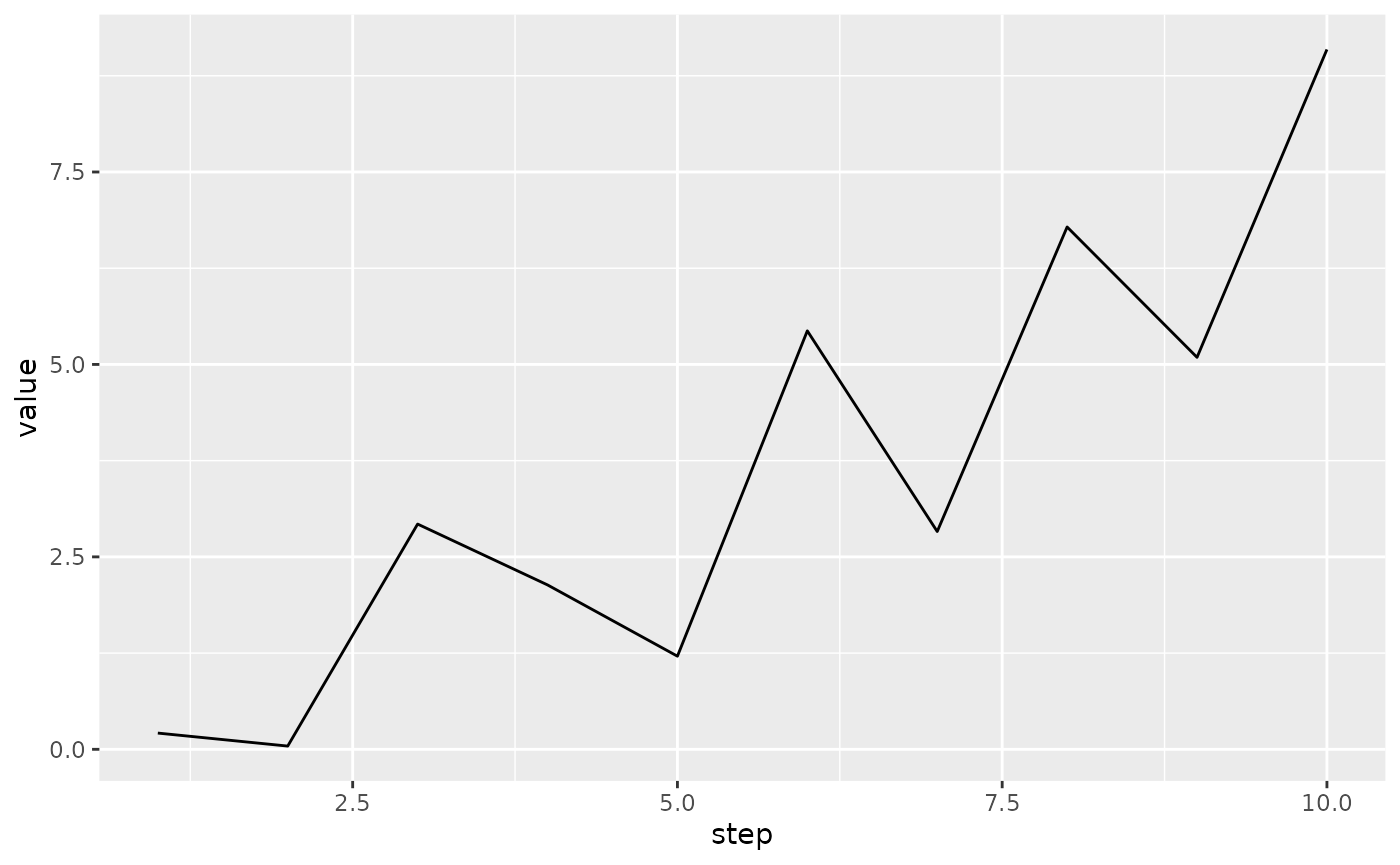
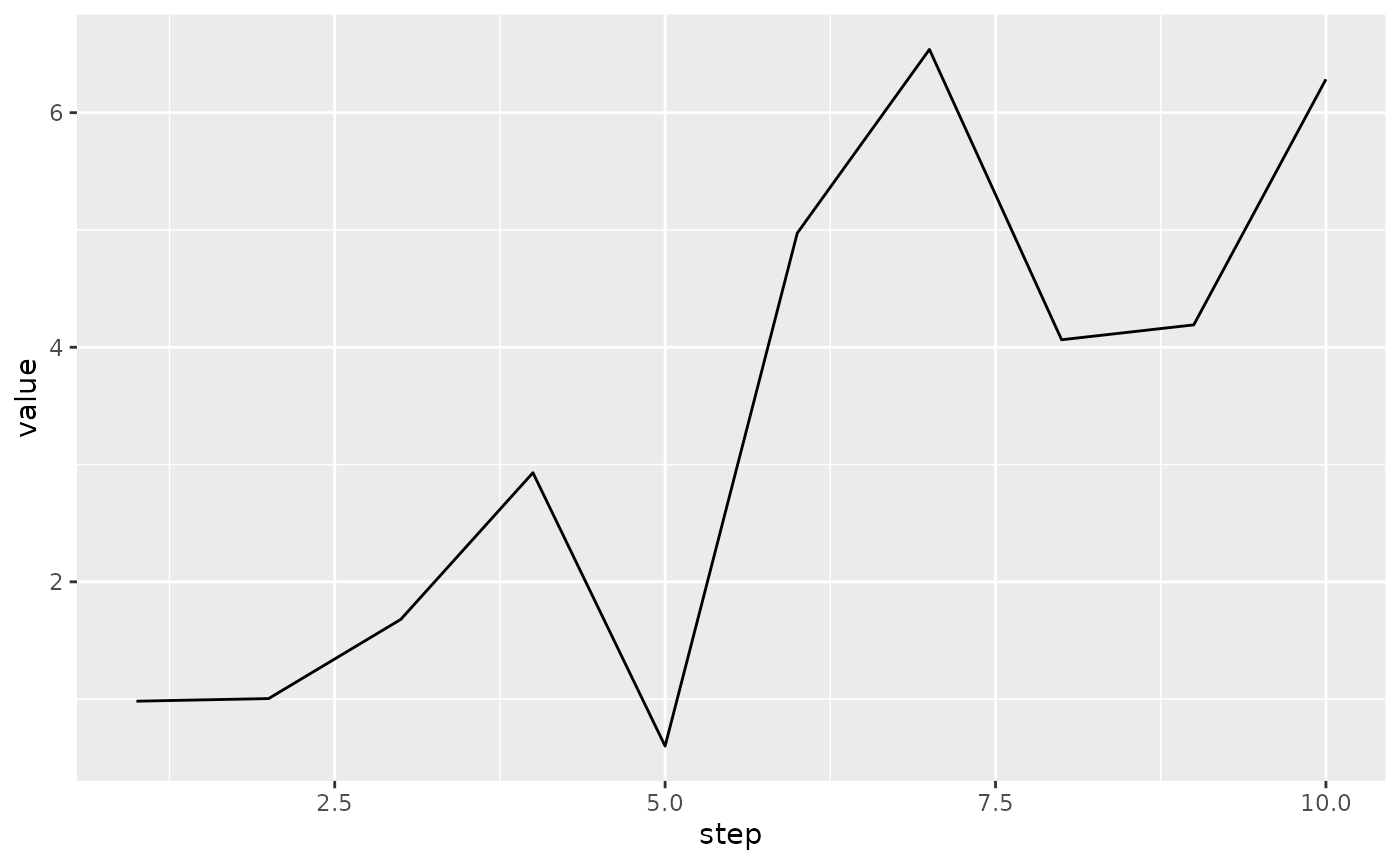
Deploying to gh-pages from @ mlverse/tfevents@6bb06f1ac5daece01a740575dfa149cb6e516cb7 🚀

diff --git a/articles/read.html b/articles/read.html
@@ -172,8 +172,8 @@ example with <code>sapply</code>:</p>
 <div class="sourceCode" id="cb7"><pre class="downlit sourceCode r">
 <code class="sourceCode R"><span><span class="co"># we remove the first summary, as it's a text summary</span></span>
 <span><span class="fu"><a href="https://rdrr.io/r/base/lapply.html" class="external-link">sapply</a></span><span class="op">(</span><span class="va">summaries</span><span class="op">$</span><span class="va">summary</span><span class="op">[</span><span class="op">-</span><span class="fl">1</span><span class="op">]</span>, <span class="va">value</span><span class="op">)</span></span>
-<span><span class="co">#&gt;  [1] 0.21093078 0.04201262 2.92610049 2.13564992 1.20986164 5.43626356</span></span>
-<span><span class="co">#&gt;  [7] 2.82948256 6.78562355 5.09219599 9.09204674</span></span></code></pre></div>
+<span><span class="co">#&gt;  [1] 0.9825128 1.0046976 1.6797793 2.9303250 0.5996587 4.9729738 6.5391517</span></span>
+<span><span class="co">#&gt;  [8] 4.0639558 4.1908422 6.2845793</span></span></code></pre></div>
 <p>The reson why you can only extract values one by one is because
 summaries are not homogenous (ie. they might be scalars, audio, images
 or text) and there would be good way of combining all of them in a
@@ -184,18 +184,18 @@ different way than what <code>summaries$summary</code> already does.</p>
 <code class="sourceCode R"><span><span class="va">scalars</span> <span class="op">&lt;-</span> <span class="fu"><a href="../reference/collect_events.html">collect_events</a></span><span class="op">(</span><span class="va">temp</span>, type <span class="op">=</span> <span class="st">"scalar"</span><span class="op">)</span></span>
 <span><span class="va">scalars</span></span>
 <span><span class="co">#&gt; <span style="color: #949494;"># A tibble: 10 × 7</span></span></span>
-<span><span class="co">#&gt;         event run    step    summary tag   plugin   value</span></span>
-<span><span class="co">#&gt;    <span style="color: #949494; font-style: italic;">&lt;tfvnts_v&gt;</span> <span style="color: #949494; font-style: italic;">&lt;chr&gt;</span> <span style="color: #949494; font-style: italic;">&lt;int&gt;</span> <span style="color: #949494; font-style: italic;">&lt;tfvnts__&gt;</span> <span style="color: #949494; font-style: italic;">&lt;chr&gt;</span> <span style="color: #949494; font-style: italic;">&lt;chr&gt;</span>    <span style="color: #949494; font-style: italic;">&lt;dbl&gt;</span></span></span>
-<span><span class="co">#&gt; <span style="color: #BCBCBC;"> 1</span>     &lt;./ 1&gt; .         1    &lt;hello&gt; hello scalars 0.211 </span></span>
-<span><span class="co">#&gt; <span style="color: #BCBCBC;"> 2</span>     &lt;./ 2&gt; .         2    &lt;hello&gt; hello scalars 0.042<span style="text-decoration: underline;">0</span></span></span>
-<span><span class="co">#&gt; <span style="color: #BCBCBC;"> 3</span>     &lt;./ 3&gt; .         3    &lt;hello&gt; hello scalars 2.93  </span></span>
-<span><span class="co">#&gt; <span style="color: #BCBCBC;"> 4</span>     &lt;./ 4&gt; .         4    &lt;hello&gt; hello scalars 2.14  </span></span>
-<span><span class="co">#&gt; <span style="color: #BCBCBC;"> 5</span>     &lt;./ 5&gt; .         5    &lt;hello&gt; hello scalars 1.21  </span></span>
-<span><span class="co">#&gt; <span style="color: #BCBCBC;"> 6</span>     &lt;./ 6&gt; .         6    &lt;hello&gt; hello scalars 5.44  </span></span>
-<span><span class="co">#&gt; <span style="color: #BCBCBC;"> 7</span>     &lt;./ 7&gt; .         7    &lt;hello&gt; hello scalars 2.83  </span></span>
-<span><span class="co">#&gt; <span style="color: #BCBCBC;"> 8</span>     &lt;./ 8&gt; .         8    &lt;hello&gt; hello scalars 6.79  </span></span>
-<span><span class="co">#&gt; <span style="color: #BCBCBC;"> 9</span>     &lt;./ 9&gt; .         9    &lt;hello&gt; hello scalars 5.09  </span></span>
-<span><span class="co">#&gt; <span style="color: #BCBCBC;">10</span>     &lt;./10&gt; .        10    &lt;hello&gt; hello scalars 9.09</span></span></code></pre></div>
+<span><span class="co">#&gt;         event run    step    summary tag   plugin  value</span></span>
+<span><span class="co">#&gt;    <span style="color: #949494; font-style: italic;">&lt;tfvnts_v&gt;</span> <span style="color: #949494; font-style: italic;">&lt;chr&gt;</span> <span style="color: #949494; font-style: italic;">&lt;int&gt;</span> <span style="color: #949494; font-style: italic;">&lt;tfvnts__&gt;</span> <span style="color: #949494; font-style: italic;">&lt;chr&gt;</span> <span style="color: #949494; font-style: italic;">&lt;chr&gt;</span>   <span style="color: #949494; font-style: italic;">&lt;dbl&gt;</span></span></span>
+<span><span class="co">#&gt; <span style="color: #BCBCBC;"> 1</span>     &lt;./ 1&gt; .         1    &lt;hello&gt; hello scalars 0.983</span></span>
+<span><span class="co">#&gt; <span style="color: #BCBCBC;"> 2</span>     &lt;./ 2&gt; .         2    &lt;hello&gt; hello scalars 1.00 </span></span>
+<span><span class="co">#&gt; <span style="color: #BCBCBC;"> 3</span>     &lt;./ 3&gt; .         3    &lt;hello&gt; hello scalars 1.68 </span></span>
+<span><span class="co">#&gt; <span style="color: #BCBCBC;"> 4</span>     &lt;./ 4&gt; .         4    &lt;hello&gt; hello scalars 2.93 </span></span>
+<span><span class="co">#&gt; <span style="color: #BCBCBC;"> 5</span>     &lt;./ 5&gt; .         5    &lt;hello&gt; hello scalars 0.600</span></span>
+<span><span class="co">#&gt; <span style="color: #BCBCBC;"> 6</span>     &lt;./ 6&gt; .         6    &lt;hello&gt; hello scalars 4.97 </span></span>
+<span><span class="co">#&gt; <span style="color: #BCBCBC;"> 7</span>     &lt;./ 7&gt; .         7    &lt;hello&gt; hello scalars 6.54 </span></span>
+<span><span class="co">#&gt; <span style="color: #BCBCBC;"> 8</span>     &lt;./ 8&gt; .         8    &lt;hello&gt; hello scalars 4.06 </span></span>
+<span><span class="co">#&gt; <span style="color: #BCBCBC;"> 9</span>     &lt;./ 9&gt; .         9    &lt;hello&gt; hello scalars 4.19 </span></span>
+<span><span class="co">#&gt; <span style="color: #BCBCBC;">10</span>     &lt;./10&gt; .        10    &lt;hello&gt; hello scalars 6.28</span></span></code></pre></div>
 <p>Now, values can be expanded in the data frame and you get a ready to
 use data frame, for example:</p>
 <div class="sourceCode" id="cb9"><pre class="downlit sourceCode r">
@@ -218,7 +218,7 @@ load events in smaller batches.</p>
 <span><span class="co">#&gt; <span style="color: #949494;"># A tibble: 1 × 7</span></span></span>
 <span><span class="co">#&gt;        event run    step    summary tag   plugin  value</span></span>
 <span><span class="co">#&gt;   <span style="color: #949494; font-style: italic;">&lt;tfvnts_v&gt;</span> <span style="color: #949494; font-style: italic;">&lt;chr&gt;</span> <span style="color: #949494; font-style: italic;">&lt;int&gt;</span> <span style="color: #949494; font-style: italic;">&lt;tfvnts__&gt;</span> <span style="color: #949494; font-style: italic;">&lt;chr&gt;</span> <span style="color: #949494; font-style: italic;">&lt;chr&gt;</span>   <span style="color: #949494; font-style: italic;">&lt;dbl&gt;</span></span></span>
-<span><span class="co">#&gt; <span style="color: #BCBCBC;">1</span>      &lt;./1&gt; .         1    &lt;hello&gt; hello scalars 0.211</span></span></code></pre></div>
+<span><span class="co">#&gt; <span style="color: #BCBCBC;">1</span>      &lt;./1&gt; .         1    &lt;hello&gt; hello scalars 0.983</span></span></code></pre></div>
 <p>Notice that the first call to <code>collect_events</code> collected
 the first scalar summary event in the directory because of
 <code>n = 1</code>. The next call will collect the remaining ones as by
@@ -226,17 +226,17 @@ default <code>n = NULL</code>.</p>
 <div class="sourceCode" id="cb11"><pre class="downlit sourceCode r">
 <code class="sourceCode R"><span><span class="fu"><a href="../reference/collect_events.html">collect_events</a></span><span class="op">(</span><span class="va">con</span>, type <span class="op">=</span> <span class="st">"scalar"</span><span class="op">)</span></span>
 <span><span class="co">#&gt; <span style="color: #949494;"># A tibble: 9 × 7</span></span></span>
-<span><span class="co">#&gt;        event run    step    summary tag   plugin   value</span></span>
-<span><span class="co">#&gt;   <span style="color: #949494; font-style: italic;">&lt;tfvnts_v&gt;</span> <span style="color: #949494; font-style: italic;">&lt;chr&gt;</span> <span style="color: #949494; font-style: italic;">&lt;int&gt;</span> <span style="color: #949494; font-style: italic;">&lt;tfvnts__&gt;</span> <span style="color: #949494; font-style: italic;">&lt;chr&gt;</span> <span style="color: #949494; font-style: italic;">&lt;chr&gt;</span>    <span style="color: #949494; font-style: italic;">&lt;dbl&gt;</span></span></span>
-<span><span class="co">#&gt; <span style="color: #BCBCBC;">1</span>     &lt;./ 2&gt; .         2    &lt;hello&gt; hello scalars 0.042<span style="text-decoration: underline;">0</span></span></span>
-<span><span class="co">#&gt; <span style="color: #BCBCBC;">2</span>     &lt;./ 3&gt; .         3    &lt;hello&gt; hello scalars 2.93  </span></span>
-<span><span class="co">#&gt; <span style="color: #BCBCBC;">3</span>     &lt;./ 4&gt; .         4    &lt;hello&gt; hello scalars 2.14  </span></span>
-<span><span class="co">#&gt; <span style="color: #BCBCBC;">4</span>     &lt;./ 5&gt; .         5    &lt;hello&gt; hello scalars 1.21  </span></span>
-<span><span class="co">#&gt; <span style="color: #BCBCBC;">5</span>     &lt;./ 6&gt; .         6    &lt;hello&gt; hello scalars 5.44  </span></span>
-<span><span class="co">#&gt; <span style="color: #BCBCBC;">6</span>     &lt;./ 7&gt; .         7    &lt;hello&gt; hello scalars 2.83  </span></span>
-<span><span class="co">#&gt; <span style="color: #BCBCBC;">7</span>     &lt;./ 8&gt; .         8    &lt;hello&gt; hello scalars 6.79  </span></span>
-<span><span class="co">#&gt; <span style="color: #BCBCBC;">8</span>     &lt;./ 9&gt; .         9    &lt;hello&gt; hello scalars 5.09  </span></span>
-<span><span class="co">#&gt; <span style="color: #BCBCBC;">9</span>     &lt;./10&gt; .        10    &lt;hello&gt; hello scalars 9.09</span></span></code></pre></div>
+<span><span class="co">#&gt;        event run    step    summary tag   plugin  value</span></span>
+<span><span class="co">#&gt;   <span style="color: #949494; font-style: italic;">&lt;tfvnts_v&gt;</span> <span style="color: #949494; font-style: italic;">&lt;chr&gt;</span> <span style="color: #949494; font-style: italic;">&lt;int&gt;</span> <span style="color: #949494; font-style: italic;">&lt;tfvnts__&gt;</span> <span style="color: #949494; font-style: italic;">&lt;chr&gt;</span> <span style="color: #949494; font-style: italic;">&lt;chr&gt;</span>   <span style="color: #949494; font-style: italic;">&lt;dbl&gt;</span></span></span>
+<span><span class="co">#&gt; <span style="color: #BCBCBC;">1</span>     &lt;./ 2&gt; .         2    &lt;hello&gt; hello scalars 1.00 </span></span>
+<span><span class="co">#&gt; <span style="color: #BCBCBC;">2</span>     &lt;./ 3&gt; .         3    &lt;hello&gt; hello scalars 1.68 </span></span>
+<span><span class="co">#&gt; <span style="color: #BCBCBC;">3</span>     &lt;./ 4&gt; .         4    &lt;hello&gt; hello scalars 2.93 </span></span>
+<span><span class="co">#&gt; <span style="color: #BCBCBC;">4</span>     &lt;./ 5&gt; .         5    &lt;hello&gt; hello scalars 0.600</span></span>
+<span><span class="co">#&gt; <span style="color: #BCBCBC;">5</span>     &lt;./ 6&gt; .         6    &lt;hello&gt; hello scalars 4.97 </span></span>
+<span><span class="co">#&gt; <span style="color: #BCBCBC;">6</span>     &lt;./ 7&gt; .         7    &lt;hello&gt; hello scalars 6.54 </span></span>
+<span><span class="co">#&gt; <span style="color: #BCBCBC;">7</span>     &lt;./ 8&gt; .         8    &lt;hello&gt; hello scalars 4.06 </span></span>
+<span><span class="co">#&gt; <span style="color: #BCBCBC;">8</span>     &lt;./ 9&gt; .         9    &lt;hello&gt; hello scalars 4.19 </span></span>
+<span><span class="co">#&gt; <span style="color: #BCBCBC;">9</span>     &lt;./10&gt; .        10    &lt;hello&gt; hello scalars 6.28</span></span></code></pre></div>
 <p>We can now log some more scalars and recollect, you will see that the
 events that were just written are now collected.</p>
 <div class="sourceCode" id="cb12"><pre class="downlit sourceCode r">
@@ -247,9 +247,9 @@ events that were just written are now collected.</p>
 <span><span class="co">#&gt; <span style="color: #949494;"># A tibble: 3 × 7</span></span></span>
 <span><span class="co">#&gt;        event run    step    summary tag   plugin  value</span></span>
 <span><span class="co">#&gt;   <span style="color: #949494; font-style: italic;">&lt;tfvnts_v&gt;</span> <span style="color: #949494; font-style: italic;">&lt;chr&gt;</span> <span style="color: #949494; font-style: italic;">&lt;int&gt;</span> <span style="color: #949494; font-style: italic;">&lt;tfvnts__&gt;</span> <span style="color: #949494; font-style: italic;">&lt;chr&gt;</span> <span style="color: #949494; font-style: italic;">&lt;chr&gt;</span>   <span style="color: #949494; font-style: italic;">&lt;dbl&gt;</span></span></span>
-<span><span class="co">#&gt; <span style="color: #BCBCBC;">1</span>     &lt;./11&gt; .        11    &lt;hello&gt; hello scalars 0.989</span></span>
-<span><span class="co">#&gt; <span style="color: #BCBCBC;">2</span>     &lt;./12&gt; .        12    &lt;hello&gt; hello scalars 1.11 </span></span>
-<span><span class="co">#&gt; <span style="color: #BCBCBC;">3</span>     &lt;./13&gt; .        13    &lt;hello&gt; hello scalars 0.542</span></span></code></pre></div>
+<span><span class="co">#&gt; <span style="color: #BCBCBC;">1</span>     &lt;./11&gt; .        11    &lt;hello&gt; hello scalars 0.175</span></span>
+<span><span class="co">#&gt; <span style="color: #BCBCBC;">2</span>     &lt;./12&gt; .        12    &lt;hello&gt; hello scalars 0.912</span></span>
+<span><span class="co">#&gt; <span style="color: #BCBCBC;">3</span>     &lt;./13&gt; .        13    &lt;hello&gt; hello scalars 2.95</span></span></code></pre></div>
 <p>This interface allows you to efficiently read tfevents records
 without having them all on RAM at once, or work in a streaming way in a
 sense that a process might be writing tfevents (for example in a

diff --git a/articles/hparams.html b/articles/hparams.html
@@ -194,80 +194,80 @@ sets of hyperparameters.</p>
 <code>temp</code> will be filled with event files.</p>
 <div class="sourceCode" id="cb7"><pre class="downlit sourceCode r">
 <code class="sourceCode R"><span><span class="fu">fs</span><span class="fu">::</span><span class="fu"><a href="https://fs.r-lib.org/reference/dir_tree.html" class="external-link">dir_tree</a></span><span class="op">(</span><span class="va">temp</span><span class="op">)</span></span>
-<span><span class="co">#&gt; <span style="color: #0000BB; font-weight: bold;">/tmp/RtmpzsAj8u/logdir29de6ddbd7fd</span></span></span>
-<span><span class="co">#&gt; ├── <span style="color: #0000BB; font-weight: bold;">bjgepadquwnwiud</span></span></span>
-<span><span class="co">#&gt; │   ├── events.out.tfevents.1673179904.v2</span></span>
+<span><span class="co">#&gt; <span style="color: #0000BB; font-weight: bold;">/tmp/RtmpBonFFg/logdir246beb780</span></span></span>
+<span><span class="co">#&gt; ├── <span style="color: #0000BB; font-weight: bold;">cviftifxjmuktue</span></span></span>
+<span><span class="co">#&gt; │   ├── events.out.tfevents.1673368661.v2</span></span>
 <span><span class="co">#&gt; │   ├── <span style="color: #0000BB; font-weight: bold;">train</span></span></span>
-<span><span class="co">#&gt; │   │   └── events.out.tfevents.1673179904.v2</span></span>
+<span><span class="co">#&gt; │   │   └── events.out.tfevents.1673368661.v2</span></span>
 <span><span class="co">#&gt; │   └── <span style="color: #0000BB; font-weight: bold;">valid</span></span></span>
-<span><span class="co">#&gt; │       └── events.out.tfevents.1673179904.v2</span></span>
-<span><span class="co">#&gt; ├── <span style="color: #0000BB; font-weight: bold;">bjqhfmecgmcrnab</span></span></span>
-<span><span class="co">#&gt; │   ├── events.out.tfevents.1673179904.v2</span></span>
+<span><span class="co">#&gt; │       └── events.out.tfevents.1673368661.v2</span></span>
+<span><span class="co">#&gt; ├── <span style="color: #0000BB; font-weight: bold;">eserkunvjjshysy</span></span></span>
+<span><span class="co">#&gt; │   ├── events.out.tfevents.1673368660.v2</span></span>
 <span><span class="co">#&gt; │   ├── <span style="color: #0000BB; font-weight: bold;">train</span></span></span>
-<span><span class="co">#&gt; │   │   └── events.out.tfevents.1673179904.v2</span></span>
+<span><span class="co">#&gt; │   │   └── events.out.tfevents.1673368660.v2</span></span>
 <span><span class="co">#&gt; │   └── <span style="color: #0000BB; font-weight: bold;">valid</span></span></span>
-<span><span class="co">#&gt; │       └── events.out.tfevents.1673179904.v2</span></span>
-<span><span class="co">#&gt; ├── <span style="color: #0000BB; font-weight: bold;">caxkvklknrhfzkf</span></span></span>
-<span><span class="co">#&gt; │   ├── events.out.tfevents.1673179904.v2</span></span>
+<span><span class="co">#&gt; │       └── events.out.tfevents.1673368660.v2</span></span>
+<span><span class="co">#&gt; ├── events.out.tfevents.1673368659.v2</span></span>
+<span><span class="co">#&gt; ├── <span style="color: #0000BB; font-weight: bold;">fcpokpfpyksiiye</span></span></span>
+<span><span class="co">#&gt; │   ├── events.out.tfevents.1673368661.v2</span></span>
 <span><span class="co">#&gt; │   ├── <span style="color: #0000BB; font-weight: bold;">train</span></span></span>
-<span><span class="co">#&gt; │   │   └── events.out.tfevents.1673179904.v2</span></span>
+<span><span class="co">#&gt; │   │   └── events.out.tfevents.1673368661.v2</span></span>
 <span><span class="co">#&gt; │   └── <span style="color: #0000BB; font-weight: bold;">valid</span></span></span>
-<span><span class="co">#&gt; │       └── events.out.tfevents.1673179904.v2</span></span>
-<span><span class="co">#&gt; ├── <span style="color: #0000BB; font-weight: bold;">cvrumwlezqrvgkv</span></span></span>
-<span><span class="co">#&gt; │   ├── events.out.tfevents.1673179905.v2</span></span>
+<span><span class="co">#&gt; │       └── events.out.tfevents.1673368661.v2</span></span>
+<span><span class="co">#&gt; ├── <span style="color: #0000BB; font-weight: bold;">iucrlzrrwqvuaxh</span></span></span>
+<span><span class="co">#&gt; │   ├── events.out.tfevents.1673368659.v2</span></span>
 <span><span class="co">#&gt; │   ├── <span style="color: #0000BB; font-weight: bold;">train</span></span></span>
-<span><span class="co">#&gt; │   │   └── events.out.tfevents.1673179905.v2</span></span>
+<span><span class="co">#&gt; │   │   └── events.out.tfevents.1673368659.v2</span></span>
 <span><span class="co">#&gt; │   └── <span style="color: #0000BB; font-weight: bold;">valid</span></span></span>
-<span><span class="co">#&gt; │       └── events.out.tfevents.1673179905.v2</span></span>
-<span><span class="co">#&gt; ├── <span style="color: #0000BB; font-weight: bold;">dthygvameuvogje</span></span></span>
-<span><span class="co">#&gt; │   ├── events.out.tfevents.1673179904.v2</span></span>
+<span><span class="co">#&gt; │       └── events.out.tfevents.1673368659.v2</span></span>
+<span><span class="co">#&gt; ├── <span style="color: #0000BB; font-weight: bold;">iupvdcdurjyjuuz</span></span></span>
+<span><span class="co">#&gt; │   ├── events.out.tfevents.1673368661.v2</span></span>
 <span><span class="co">#&gt; │   ├── <span style="color: #0000BB; font-weight: bold;">train</span></span></span>
-<span><span class="co">#&gt; │   │   └── events.out.tfevents.1673179904.v2</span></span>
+<span><span class="co">#&gt; │   │   └── events.out.tfevents.1673368661.v2</span></span>
 <span><span class="co">#&gt; │   └── <span style="color: #0000BB; font-weight: bold;">valid</span></span></span>
-<span><span class="co">#&gt; │       └── events.out.tfevents.1673179904.v2</span></span>
-<span><span class="co">#&gt; ├── events.out.tfevents.1673179903.v2</span></span>
-<span><span class="co">#&gt; ├── <span style="color: #0000BB; font-weight: bold;">ftitxmzxjdqocxu</span></span></span>
-<span><span class="co">#&gt; │   ├── events.out.tfevents.1673179904.v2</span></span>
+<span><span class="co">#&gt; │       └── events.out.tfevents.1673368661.v2</span></span>
+<span><span class="co">#&gt; ├── <span style="color: #0000BB; font-weight: bold;">phgfyuqpruwnmgg</span></span></span>
+<span><span class="co">#&gt; │   ├── events.out.tfevents.1673368659.v2</span></span>
 <span><span class="co">#&gt; │   ├── <span style="color: #0000BB; font-weight: bold;">train</span></span></span>
-<span><span class="co">#&gt; │   │   └── events.out.tfevents.1673179904.v2</span></span>
+<span><span class="co">#&gt; │   │   └── events.out.tfevents.1673368659.v2</span></span>
 <span><span class="co">#&gt; │   └── <span style="color: #0000BB; font-weight: bold;">valid</span></span></span>
-<span><span class="co">#&gt; │       └── events.out.tfevents.1673179904.v2</span></span>
-<span><span class="co">#&gt; ├── <span style="color: #0000BB; font-weight: bold;">jqszoitqgowvsre</span></span></span>
-<span><span class="co">#&gt; │   ├── events.out.tfevents.1673179904.v2</span></span>
+<span><span class="co">#&gt; │       └── events.out.tfevents.1673368659.v2</span></span>
+<span><span class="co">#&gt; ├── <span style="color: #0000BB; font-weight: bold;">qzabelmralbvjox</span></span></span>
+<span><span class="co">#&gt; │   ├── events.out.tfevents.1673368661.v2</span></span>
 <span><span class="co">#&gt; │   ├── <span style="color: #0000BB; font-weight: bold;">train</span></span></span>
-<span><span class="co">#&gt; │   │   └── events.out.tfevents.1673179904.v2</span></span>
+<span><span class="co">#&gt; │   │   └── events.out.tfevents.1673368661.v2</span></span>
 <span><span class="co">#&gt; │   └── <span style="color: #0000BB; font-weight: bold;">valid</span></span></span>
-<span><span class="co">#&gt; │       └── events.out.tfevents.1673179904.v2</span></span>
-<span><span class="co">#&gt; ├── <span style="color: #0000BB; font-weight: bold;">kcmsgtkimkxkfqz</span></span></span>
-<span><span class="co">#&gt; │   ├── events.out.tfevents.1673179905.v2</span></span>
+<span><span class="co">#&gt; │       └── events.out.tfevents.1673368661.v2</span></span>
+<span><span class="co">#&gt; ├── <span style="color: #0000BB; font-weight: bold;">tgqidfnvtngwdos</span></span></span>
+<span><span class="co">#&gt; │   ├── events.out.tfevents.1673368660.v2</span></span>
 <span><span class="co">#&gt; │   ├── <span style="color: #0000BB; font-weight: bold;">train</span></span></span>
-<span><span class="co">#&gt; │   │   └── events.out.tfevents.1673179905.v2</span></span>
+<span><span class="co">#&gt; │   │   └── events.out.tfevents.1673368660.v2</span></span>
 <span><span class="co">#&gt; │   └── <span style="color: #0000BB; font-weight: bold;">valid</span></span></span>
-<span><span class="co">#&gt; │       └── events.out.tfevents.1673179905.v2</span></span>
-<span><span class="co">#&gt; ├── <span style="color: #0000BB; font-weight: bold;">oqgxvjjdcjfsgfm</span></span></span>
-<span><span class="co">#&gt; │   ├── events.out.tfevents.1673179905.v2</span></span>
+<span><span class="co">#&gt; │       └── events.out.tfevents.1673368660.v2</span></span>
+<span><span class="co">#&gt; ├── <span style="color: #0000BB; font-weight: bold;">vbkdovqkxfmwfpe</span></span></span>
+<span><span class="co">#&gt; │   ├── events.out.tfevents.1673368659.v2</span></span>
 <span><span class="co">#&gt; │   ├── <span style="color: #0000BB; font-weight: bold;">train</span></span></span>
-<span><span class="co">#&gt; │   │   └── events.out.tfevents.1673179905.v2</span></span>
+<span><span class="co">#&gt; │   │   └── events.out.tfevents.1673368659.v2</span></span>
 <span><span class="co">#&gt; │   └── <span style="color: #0000BB; font-weight: bold;">valid</span></span></span>
-<span><span class="co">#&gt; │       └── events.out.tfevents.1673179905.v2</span></span>
-<span><span class="co">#&gt; ├── <span style="color: #0000BB; font-weight: bold;">spjevdvzfosnqqv</span></span></span>
-<span><span class="co">#&gt; │   ├── events.out.tfevents.1673179905.v2</span></span>
+<span><span class="co">#&gt; │       └── events.out.tfevents.1673368659.v2</span></span>
+<span><span class="co">#&gt; ├── <span style="color: #0000BB; font-weight: bold;">vptfommpicouibn</span></span></span>
+<span><span class="co">#&gt; │   ├── events.out.tfevents.1673368660.v2</span></span>
 <span><span class="co">#&gt; │   ├── <span style="color: #0000BB; font-weight: bold;">train</span></span></span>
-<span><span class="co">#&gt; │   │   └── events.out.tfevents.1673179905.v2</span></span>
+<span><span class="co">#&gt; │   │   └── events.out.tfevents.1673368660.v2</span></span>
 <span><span class="co">#&gt; │   └── <span style="color: #0000BB; font-weight: bold;">valid</span></span></span>
-<span><span class="co">#&gt; │       └── events.out.tfevents.1673179905.v2</span></span>
-<span><span class="co">#&gt; ├── <span style="color: #0000BB; font-weight: bold;">wfdhrjprkmfvrpe</span></span></span>
-<span><span class="co">#&gt; │   ├── events.out.tfevents.1673179903.v2</span></span>
+<span><span class="co">#&gt; │       └── events.out.tfevents.1673368660.v2</span></span>
+<span><span class="co">#&gt; ├── <span style="color: #0000BB; font-weight: bold;">xdtvsftfosrnybq</span></span></span>
+<span><span class="co">#&gt; │   ├── events.out.tfevents.1673368661.v2</span></span>
 <span><span class="co">#&gt; │   ├── <span style="color: #0000BB; font-weight: bold;">train</span></span></span>
-<span><span class="co">#&gt; │   │   └── events.out.tfevents.1673179903.v2</span></span>
+<span><span class="co">#&gt; │   │   └── events.out.tfevents.1673368661.v2</span></span>
 <span><span class="co">#&gt; │   └── <span style="color: #0000BB; font-weight: bold;">valid</span></span></span>
-<span><span class="co">#&gt; │       └── events.out.tfevents.1673179903.v2</span></span>
-<span><span class="co">#&gt; └── <span style="color: #0000BB; font-weight: bold;">zcopglrkwmgaelh</span></span></span>
-<span><span class="co">#&gt;     ├── events.out.tfevents.1673179903.v2</span></span>
+<span><span class="co">#&gt; │       └── events.out.tfevents.1673368661.v2</span></span>
+<span><span class="co">#&gt; └── <span style="color: #0000BB; font-weight: bold;">ykuccmvcmbyesbd</span></span></span>
+<span><span class="co">#&gt;     ├── events.out.tfevents.1673368660.v2</span></span>
 <span><span class="co">#&gt;     ├── <span style="color: #0000BB; font-weight: bold;">train</span></span></span>
-<span><span class="co">#&gt;     │   └── events.out.tfevents.1673179903.v2</span></span>
+<span><span class="co">#&gt;     │   └── events.out.tfevents.1673368660.v2</span></span>
 <span><span class="co">#&gt;     └── <span style="color: #0000BB; font-weight: bold;">valid</span></span></span>
-<span><span class="co">#&gt;         └── events.out.tfevents.1673179903.v2</span></span></code></pre></div>
+<span><span class="co">#&gt;         └── events.out.tfevents.1673368660.v2</span></span></code></pre></div>
 <p>Finally, we can visualize the experiment results in TensorBoard:</p>
 <div class="sourceCode" id="cb8"><pre class="downlit sourceCode r">
 <code class="sourceCode R"><span><span class="fu">tensorflow</span><span class="fu">::</span><span class="fu"><a href="https://rdrr.io/pkg/tensorflow/man/tensorboard.html" class="external-link">tensorboard</a></span><span class="op">(</span><span class="va">temp</span>, port <span class="op">=</span> <span class="fl">6060</span><span class="op">)</span></span>

diff --git a/reference/collect_events.html b/reference/collect_events.html
@@ -132,13 +132,13 @@ to read further events later.</p></li>
 <span class="r-in"><span><span class="co"># collect only scalar events</span></span></span>
 <span class="r-in"><span><span class="fu">collect_events</span><span class="op">(</span><span class="va">temp</span>, type <span class="op">=</span> <span class="st">"scalar"</span><span class="op">)</span></span></span>
 <span class="r-out co"><span class="r-pr">#&gt;</span> <span style="color: #949494;"># A tibble: 5 × 7</span></span>
-<span class="r-out co"><span class="r-pr">#&gt;</span>        event run    step    summary tag    plugin   value</span>
-<span class="r-out co"><span class="r-pr">#&gt;</span>   <span style="color: #949494; font-style: italic;">&lt;tfvnts_v&gt;</span> <span style="color: #949494; font-style: italic;">&lt;chr&gt;</span> <span style="color: #949494; font-style: italic;">&lt;int&gt;</span> <span style="color: #949494; font-style: italic;">&lt;tfvnts__&gt;</span> <span style="color: #949494; font-style: italic;">&lt;chr&gt;</span>  <span style="color: #949494; font-style: italic;">&lt;chr&gt;</span>    <span style="color: #949494; font-style: italic;">&lt;dbl&gt;</span></span>
-<span class="r-out co"><span class="r-pr">#&gt;</span> <span style="color: #BCBCBC;">1</span>      &lt;./0&gt; .         0   &lt;my_log&gt; my_log scalars 0.173 </span>
-<span class="r-out co"><span class="r-pr">#&gt;</span> <span style="color: #BCBCBC;">2</span>      &lt;./1&gt; .         1   &lt;my_log&gt; my_log scalars 0.853 </span>
-<span class="r-out co"><span class="r-pr">#&gt;</span> <span style="color: #BCBCBC;">3</span>      &lt;./2&gt; .         2   &lt;my_log&gt; my_log scalars 0.502 </span>
-<span class="r-out co"><span class="r-pr">#&gt;</span> <span style="color: #BCBCBC;">4</span>      &lt;./3&gt; .         3   &lt;my_log&gt; my_log scalars 0.177 </span>
-<span class="r-out co"><span class="r-pr">#&gt;</span> <span style="color: #BCBCBC;">5</span>      &lt;./4&gt; .         4   &lt;my_log&gt; my_log scalars 0.015<span style="text-decoration: underline;">6</span></span>
+<span class="r-out co"><span class="r-pr">#&gt;</span>        event run    step    summary tag    plugin    value</span>
+<span class="r-out co"><span class="r-pr">#&gt;</span>   <span style="color: #949494; font-style: italic;">&lt;tfvnts_v&gt;</span> <span style="color: #949494; font-style: italic;">&lt;chr&gt;</span> <span style="color: #949494; font-style: italic;">&lt;int&gt;</span> <span style="color: #949494; font-style: italic;">&lt;tfvnts__&gt;</span> <span style="color: #949494; font-style: italic;">&lt;chr&gt;</span>  <span style="color: #949494; font-style: italic;">&lt;chr&gt;</span>     <span style="color: #949494; font-style: italic;">&lt;dbl&gt;</span></span>
+<span class="r-out co"><span class="r-pr">#&gt;</span> <span style="color: #BCBCBC;">1</span>      &lt;./0&gt; .         0   &lt;my_log&gt; my_log scalars 0.533  </span>
+<span class="r-out co"><span class="r-pr">#&gt;</span> <span style="color: #BCBCBC;">2</span>      &lt;./1&gt; .         1   &lt;my_log&gt; my_log scalars 0.612  </span>
+<span class="r-out co"><span class="r-pr">#&gt;</span> <span style="color: #BCBCBC;">3</span>      &lt;./2&gt; .         2   &lt;my_log&gt; my_log scalars 0.004<span style="text-decoration: underline;">55</span></span>
+<span class="r-out co"><span class="r-pr">#&gt;</span> <span style="color: #BCBCBC;">4</span>      &lt;./3&gt; .         3   &lt;my_log&gt; my_log scalars 0.322  </span>
+<span class="r-out co"><span class="r-pr">#&gt;</span> <span style="color: #BCBCBC;">5</span>      &lt;./4&gt; .         4   &lt;my_log&gt; my_log scalars 0.998  </span>
 <span class="r-in"><span></span></span>
 </code></pre></div>
     </div>

diff --git a/reference/get_default_logdir.html b/reference/get_default_logdir.html
@@ -112,7 +112,7 @@ at every call. These functions allow you to query and the current logdir.</p>
 <span class="r-in"><span><span class="fu">with_logdir</span><span class="op">(</span><span class="va">temp</span>, <span class="op">{</span></span></span>
 <span class="r-in"><span> <span class="fu"><a href="https://rdrr.io/r/base/print.html" class="external-link">print</a></span><span class="op">(</span><span class="fu">get_default_logdir</span><span class="op">(</span><span class="op">)</span><span class="op">)</span></span></span>
 <span class="r-in"><span><span class="op">}</span><span class="op">)</span></span></span>
-<span class="r-out co"><span class="r-pr">#&gt;</span> [1] "/tmp/RtmppsakK7/file283a793b79c9"</span>
+<span class="r-out co"><span class="r-pr">#&gt;</span> [1] "/tmp/Rtmpdx0XCj/file22c969f0577a"</span>
 </code></pre></div>
     </div>
   </main><aside class="col-md-3"><nav id="toc"><h2>On this page</h2>

diff --git a/reference/value.html b/reference/value.html
@@ -102,7 +102,7 @@ scalar.</p>
 <span class="r-in"><span><span class="co"># iterate over all events</span></span></span>
 <span class="r-in"><span><span class="va">summary</span> <span class="op">&lt;-</span> <span class="fu"><a href="collect_events.html">collect_events</a></span><span class="op">(</span><span class="va">temp</span>, n <span class="op">=</span> <span class="fl">1</span>, type <span class="op">=</span> <span class="st">"summary"</span><span class="op">)</span></span></span>
 <span class="r-in"><span><span class="fu">value</span><span class="op">(</span><span class="va">summary</span><span class="op">$</span><span class="va">summary</span><span class="op">)</span></span></span>
-<span class="r-out co"><span class="r-pr">#&gt;</span> [1] 0.9096761</span>
+<span class="r-out co"><span class="r-pr">#&gt;</span> [1] 0.6966037</span>
 <span class="r-in"><span></span></span>
 </code></pre></div>
     </div>
